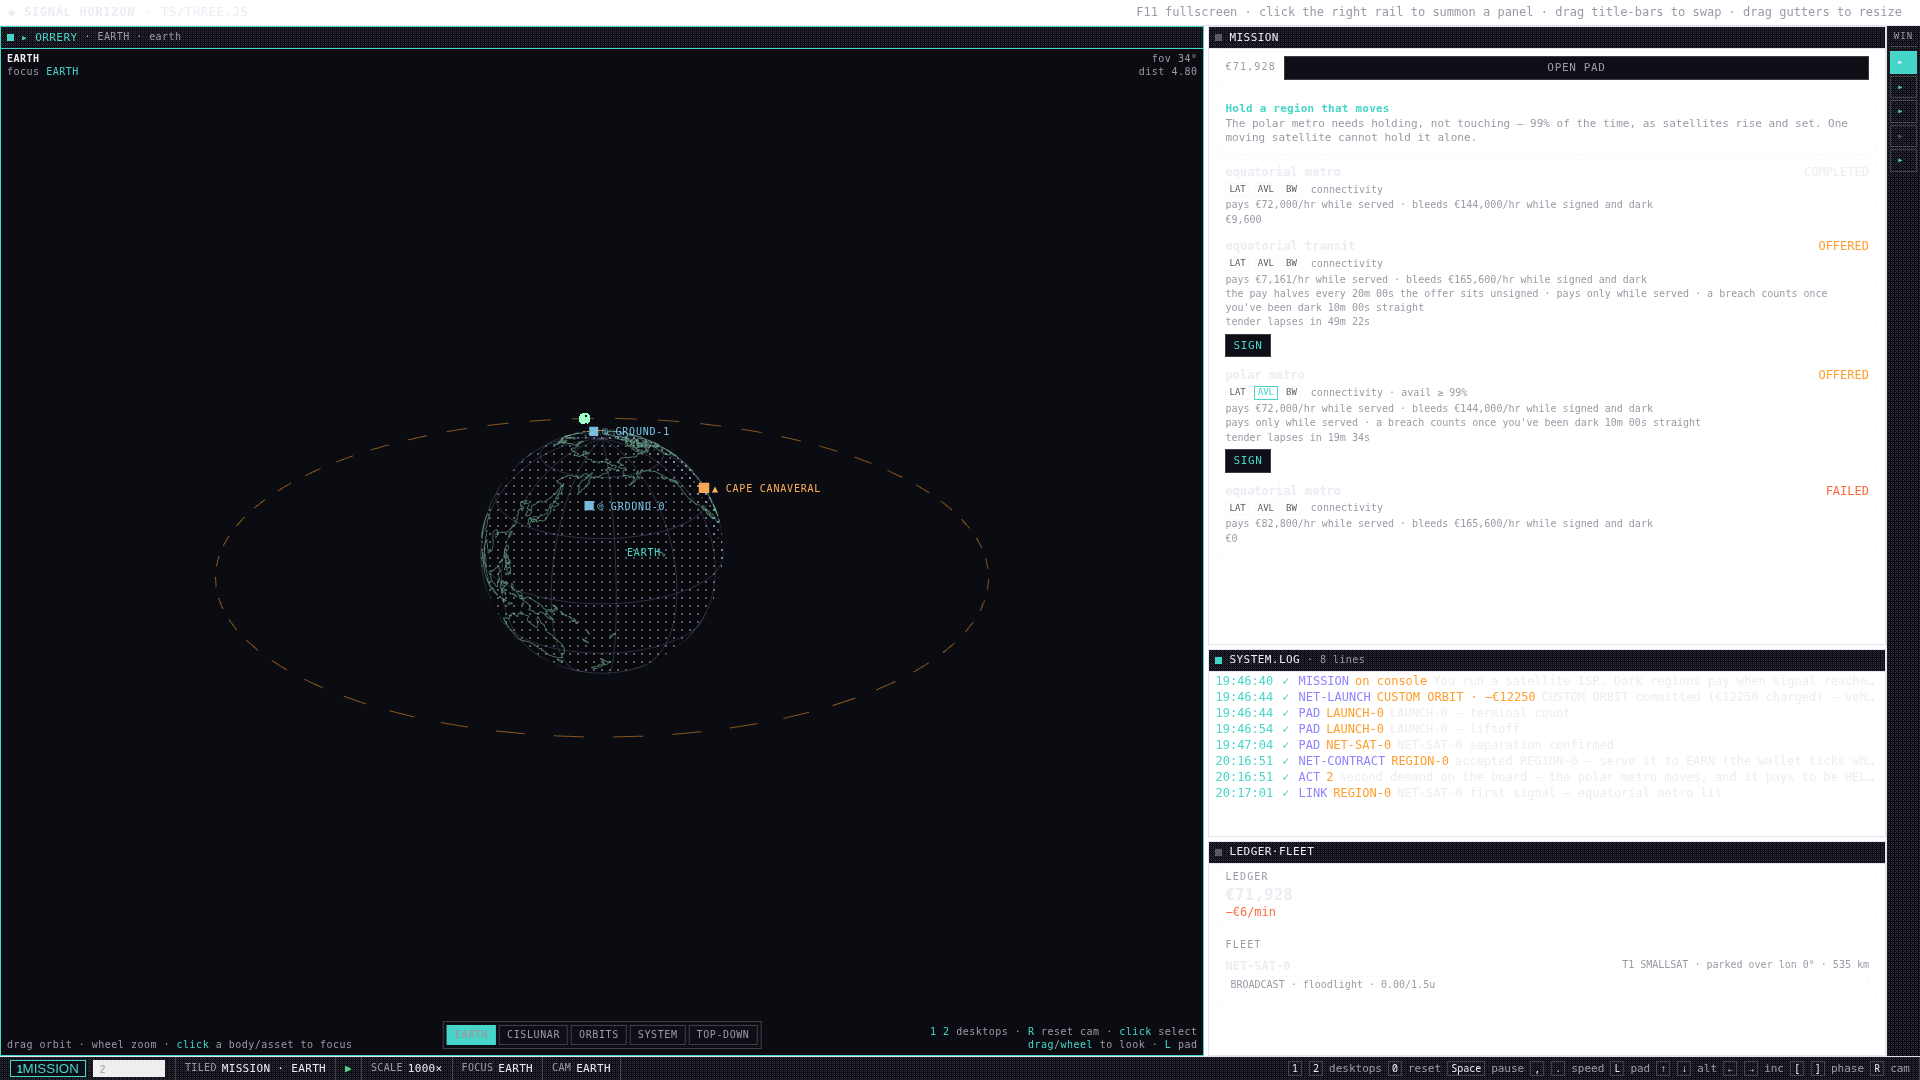
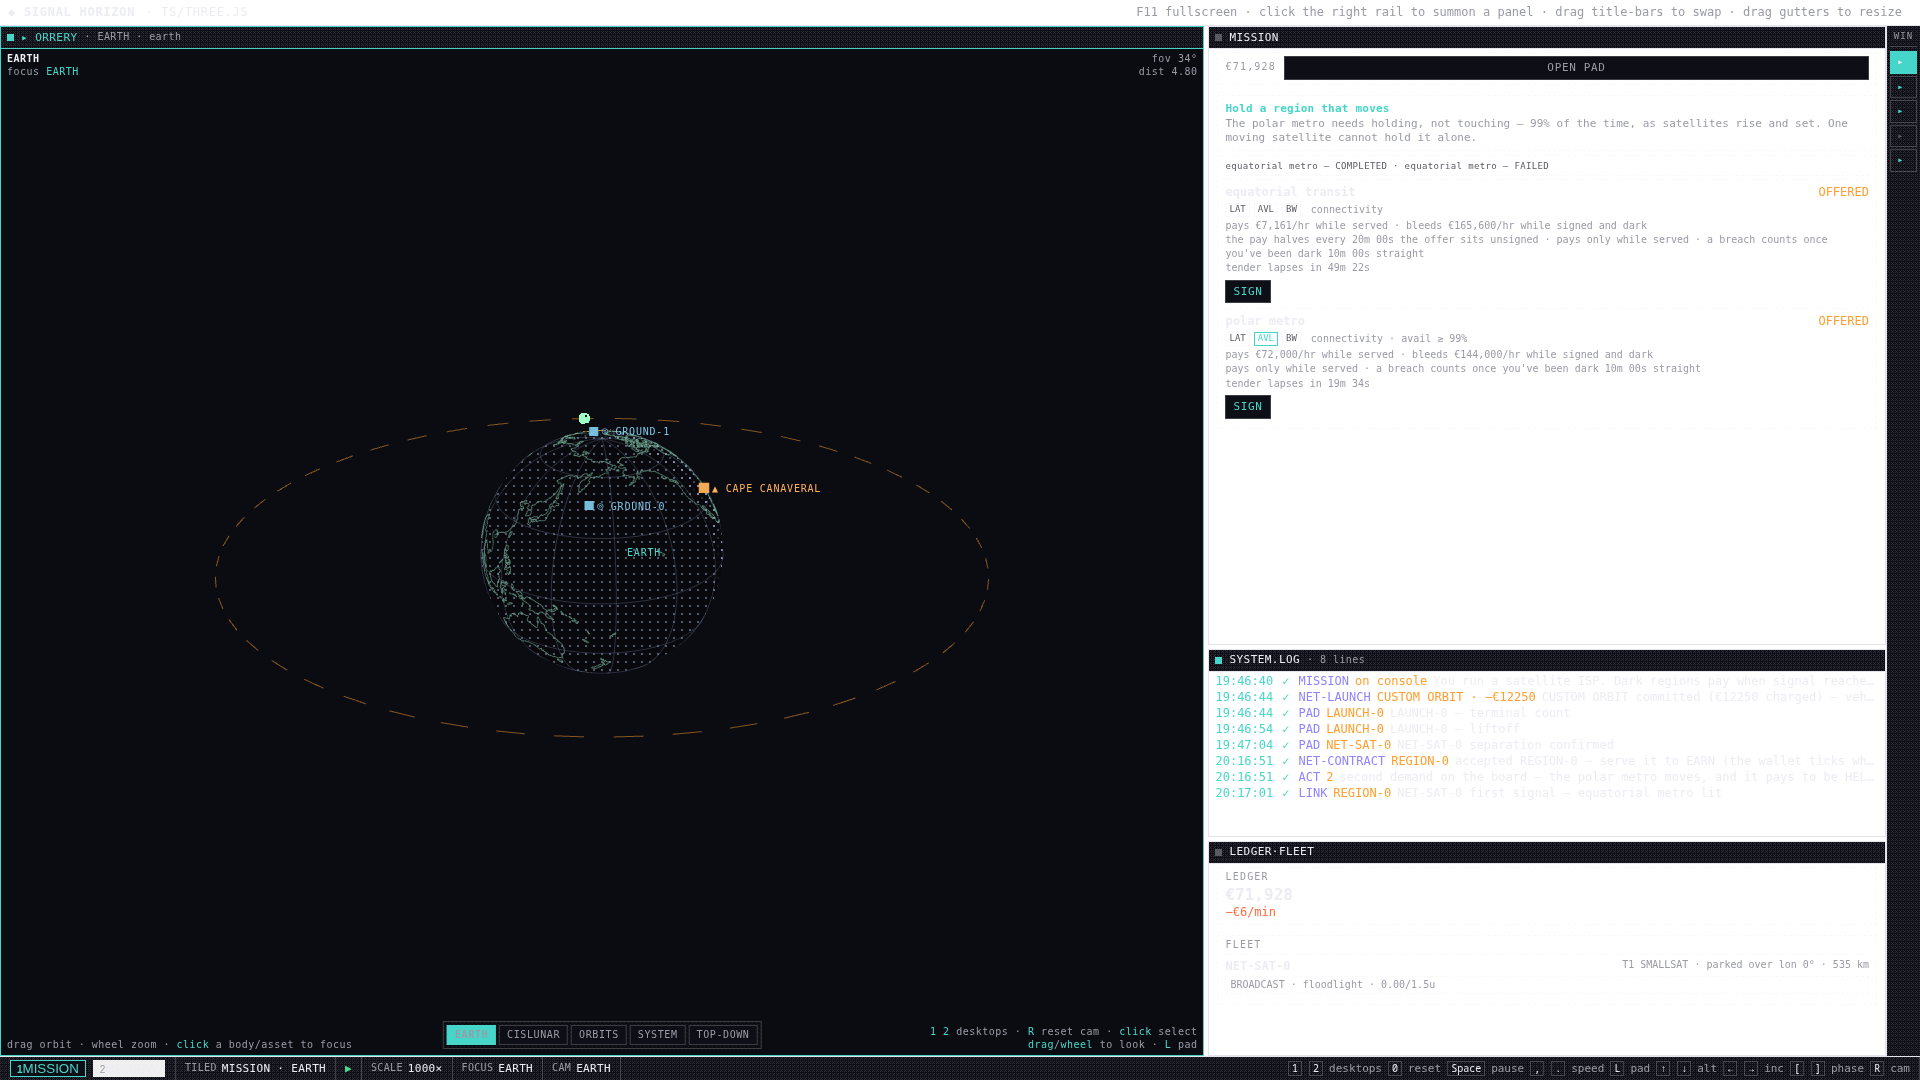
UX sweep: failed/completed tenders collapse to a history strip (the book's face is the live market; detail lives in the parse)

Changed region(s): [[0.625, 0.1528, 0.875, 0.4583], [0.6562, 0.4583, 0.7188, 0.4889], [0.9375, 0.2139, 0.9688, 0.2444]]

diff --git a/src/panels/mission-top.ts b/src/panels/mission-top.ts
@@ -407,7 +407,21 @@ export class MissionTop implements PanelHandle {
       this.tenderSig = sig;
       this.tendersHost.textContent = "";
       this.tenderEls.clear();
-      for (const t of s.tenders) {
+      // FL-UX: history is a STRIP, not a row — FAILED (and completed) tenders collapse to
+      // one dim line ("equatorial metro — FAILED · lapsed unsigned after 2h"); the parse is
+      // where history lives in detail. The FACE of the book is the live market only.
+      const historyRows = s.tenders.filter((t) => t.state === "failed" || t.state === "completed");
+      const liveRows = s.tenders.filter((t) => t.state !== "failed" && t.state !== "completed");
+      if (historyRows.length > 0) {
+        const strip = el(
+          "div",
+          "mission-history",
+          historyRows.map((t) => `${t.label} — ${t.state.toUpperCase()}`).join("  ·  "),
+        );
+        strip.title = "Past tenders. Detail lives in THE PARSE (REVIEW).";
+        this.tendersHost.appendChild(strip);
+      }
+      for (const t of liveRows) {
         const row = el("div", "mission-tender");
         const head = el("div", "mission-tender-head");
         head.appendChild(el("span", "mission-tender-label", t.label));

diff --git a/src/style.css b/src/style.css
@@ -1156,3 +1156,14 @@ body {
   padding-left: 5px;
 }
 .mission-shortfall:empty { display: none; }
+
+/* FL-UX — the tender-history strip: one dim line for failed/completed tenders (the book's
+   face is the LIVE market; history belongs to the parse). */
+.mission-history {
+  font-size: var(--ts-cap);
+  color: var(--grey);
+  padding: 2px 0 3px;
+  border-bottom: 1px dashed var(--line-dim);
+  margin-bottom: 3px;
+  letter-spacing: 0.04em;
+}
